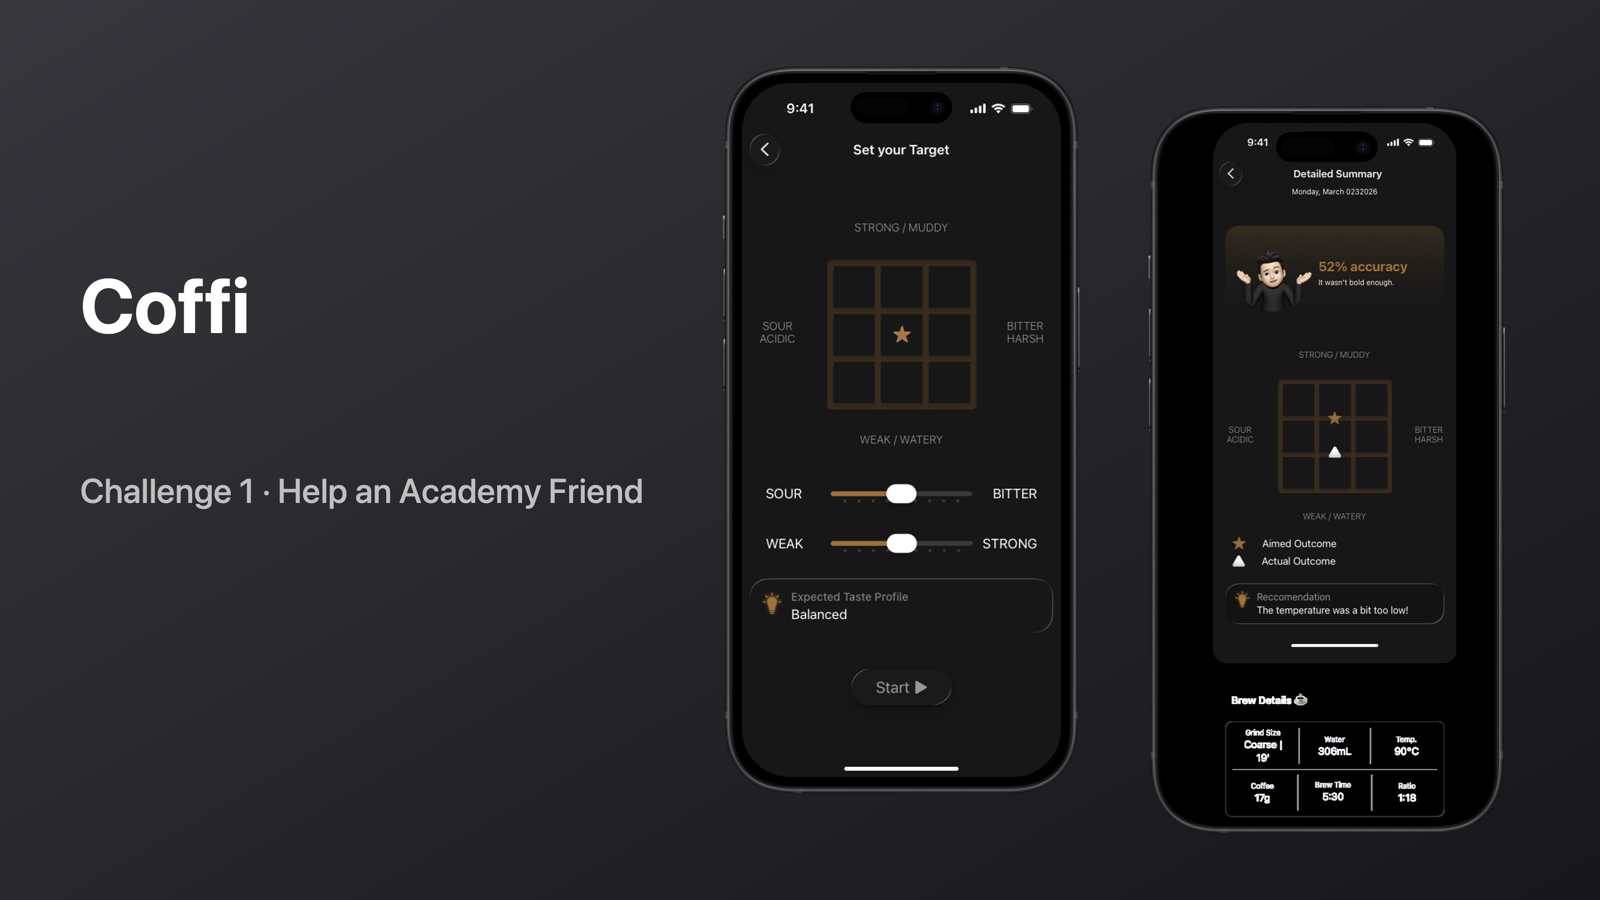
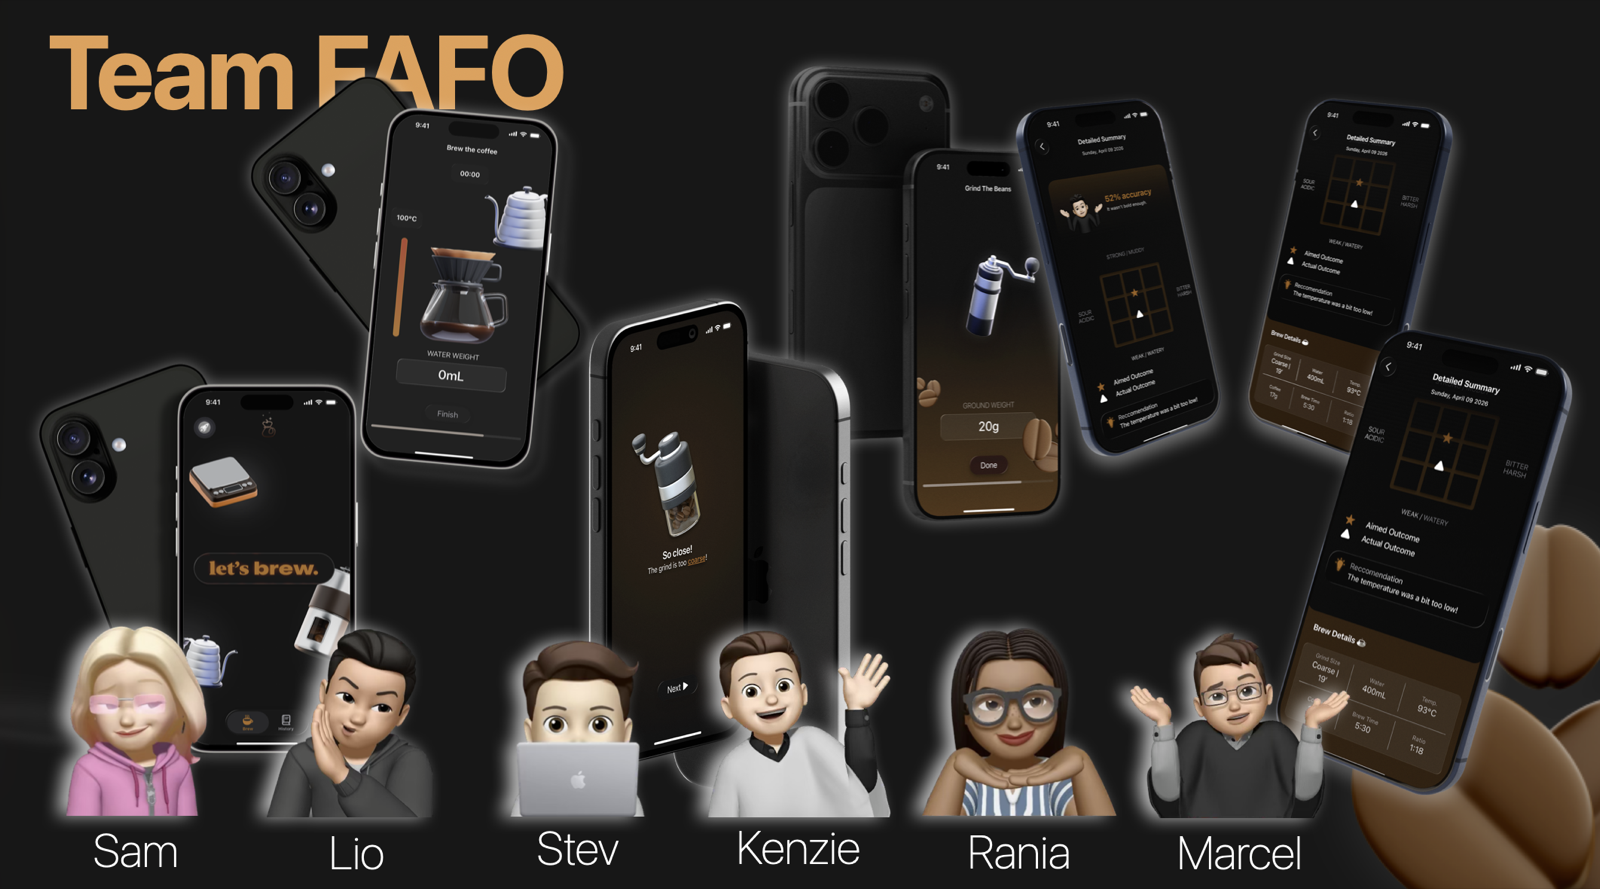
Use Team FAFO image for Coffi, add design-with-empathy line

diff --git a/src/views/PortfolioView.vue b/src/views/PortfolioView.vue
@@ -115,7 +115,7 @@ export default {
           id: 1,
           name: 'Coffi',
           imageUrl: 'Coffi',
-          status: `Coffi is a high-fidelity iOS app prototype designed by a team of six for Challenge 1 (Help an Academy Friend) at Apple Developer Academy @ BINUS – Bali. The challenge explored how technology can make our friends' lives better. We chose to help one of our Academy friends, who was interested in learning about coffee and dreams of opening a coffee shop one day, but didn't have enough resources to learn. Coffi was designed to help them learn to manually brew coffee by taking part in the process through a simulation game. As a design-only challenge, we took the idea from concept to a hi-fi prototype in Sketch without writing code. In the simulation, users set a target taste between sour and bitter and between weak and strong, follow guided steps for bean weight, grind size, and brewing, then get a summary comparing the aimed and actual outcome with an accuracy score, a recommendation, and a brew history.`,
+          status: `Coffi is a high-fidelity iOS app prototype designed by a team of six for Challenge 1 (Help an Academy Friend) at Apple Developer Academy @ BINUS – Bali. The challenge explored how technology can make our friends' lives better. We chose to help one of our Academy friends, who was interested in learning about coffee and dreams of opening a coffee shop one day, but didn't have enough resources to learn. Coffi was designed to help them learn to manually brew coffee by taking part in the process through a simulation game. Following Apple's principle of designing with empathy, we shaped the experience around our friend's needs rather than our own preferences. As a design-only challenge, we took the idea from concept to a hi-fi prototype in Sketch without writing code. In the simulation, users set a target taste between sour and bitter and between weak and strong, follow guided steps for bean weight, grind size, and brewing, then get a summary comparing the aimed and actual outcome with an accuracy score, a recommendation, and a brew history.`,
           tech: 'Sketch, Hi-Fi Prototyping, UI/UX Design',
           github: 'null',
           demo: 'null'
